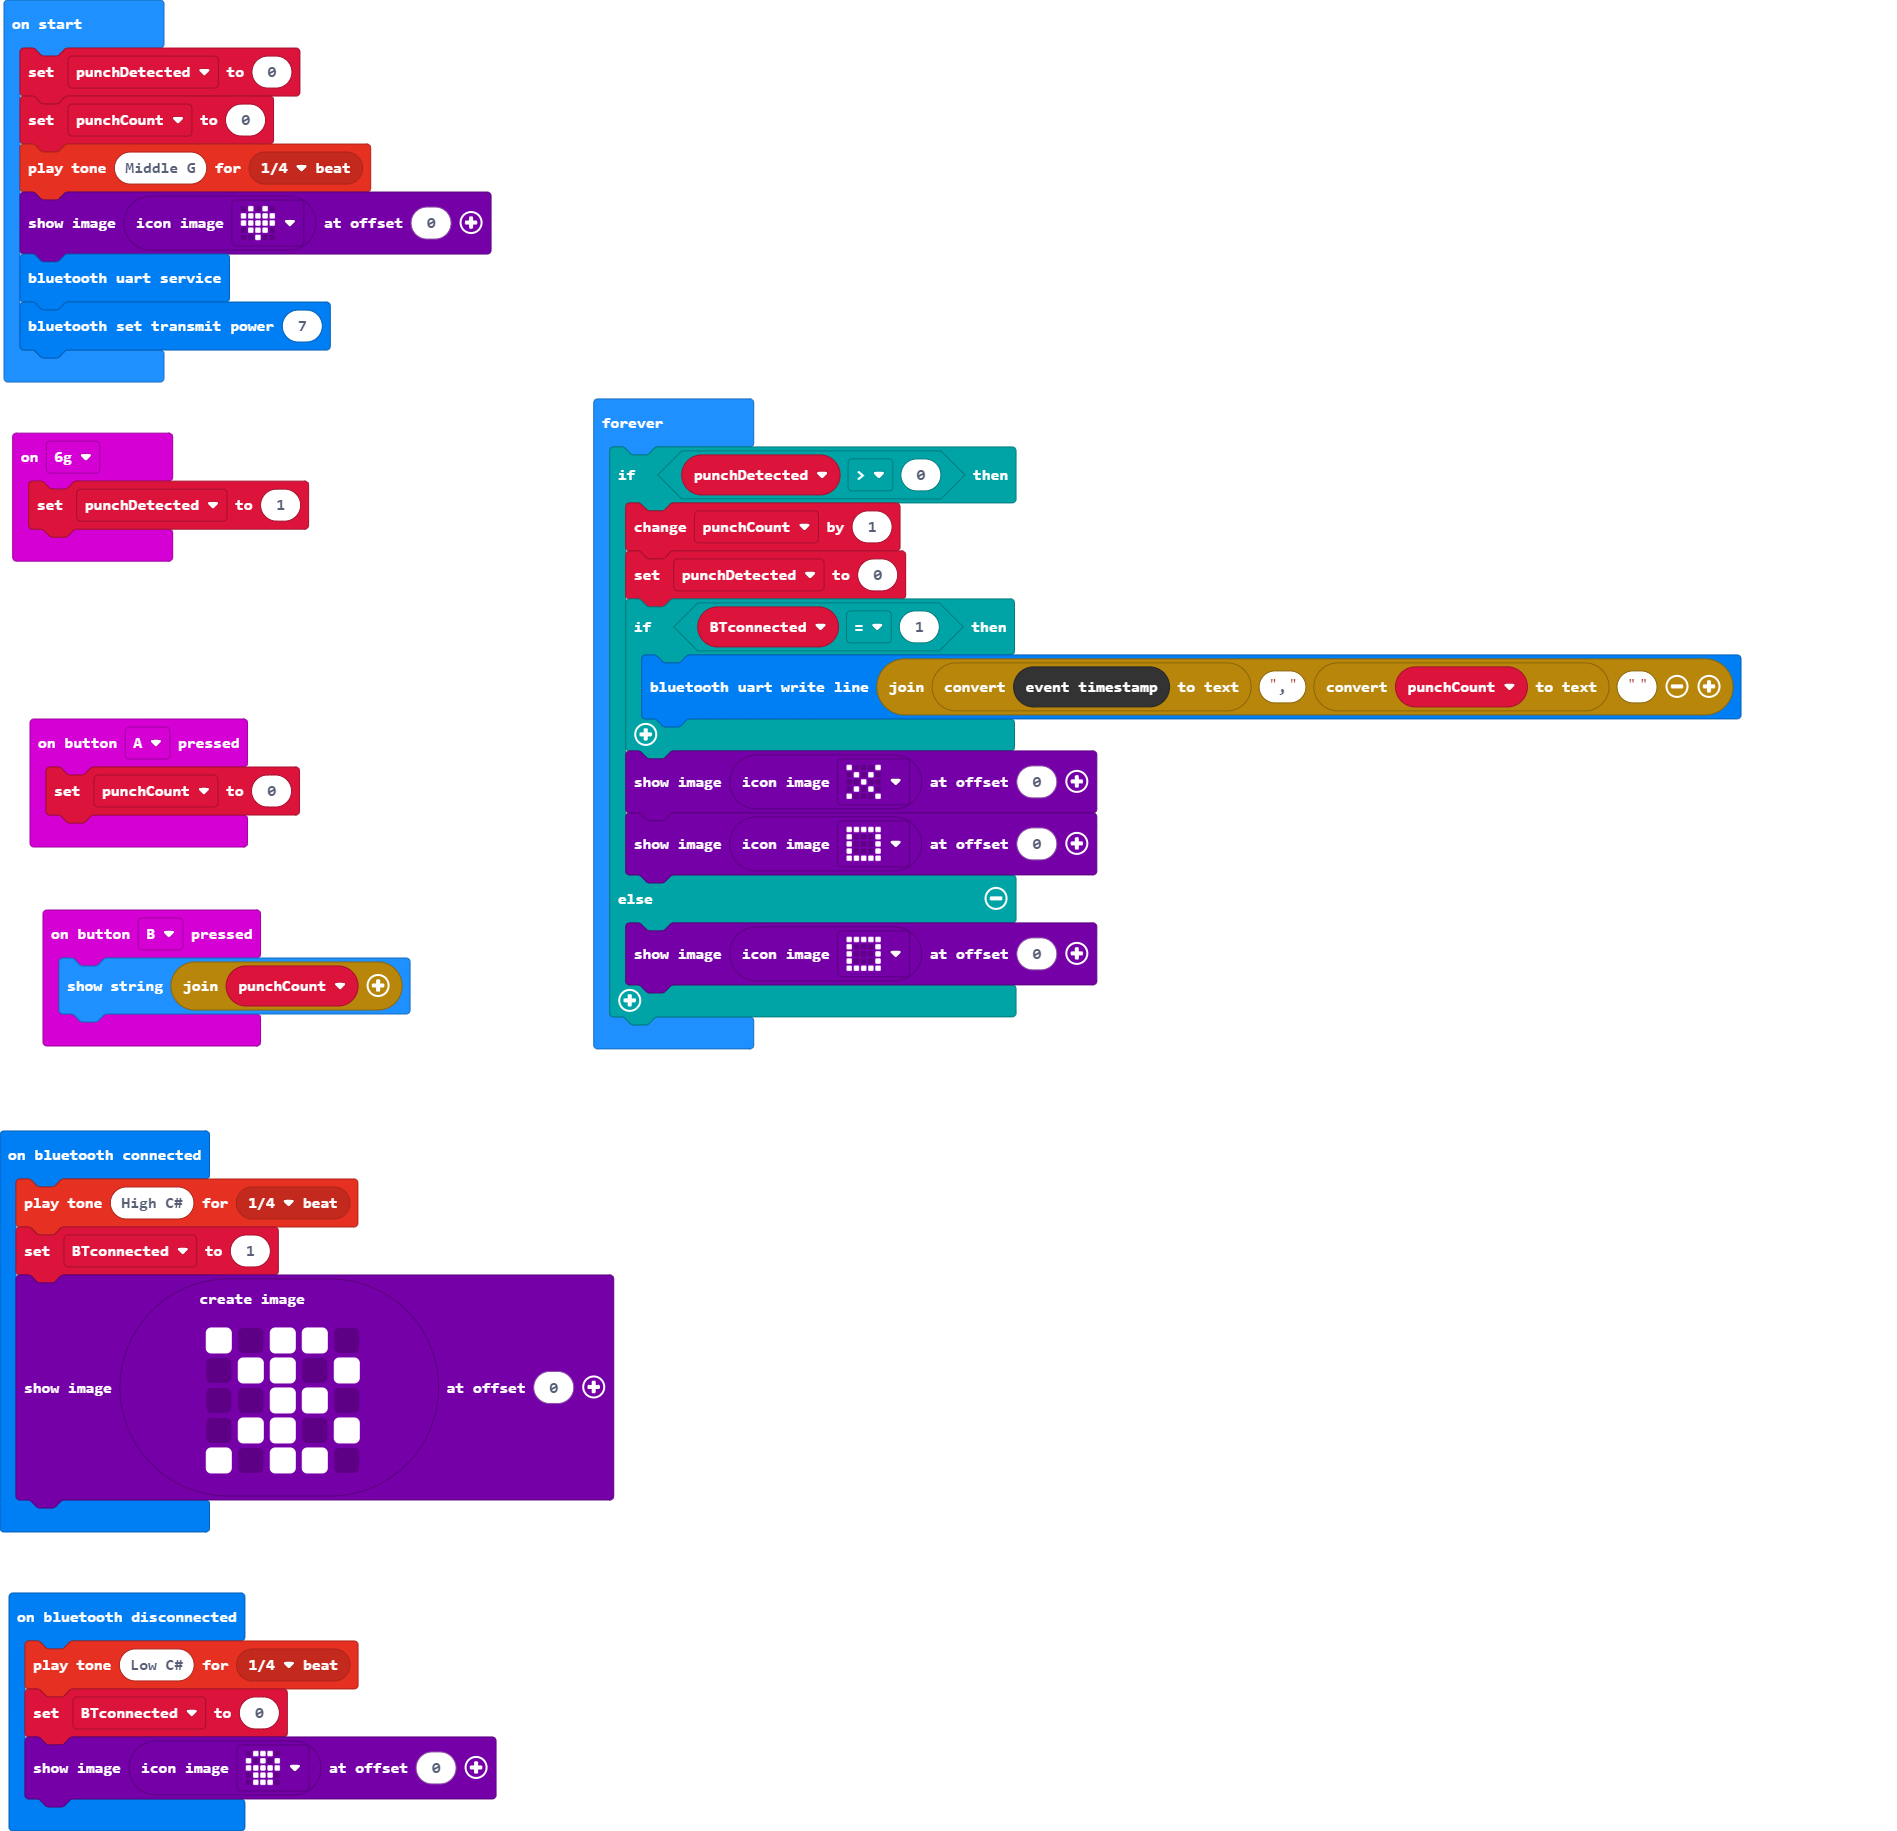
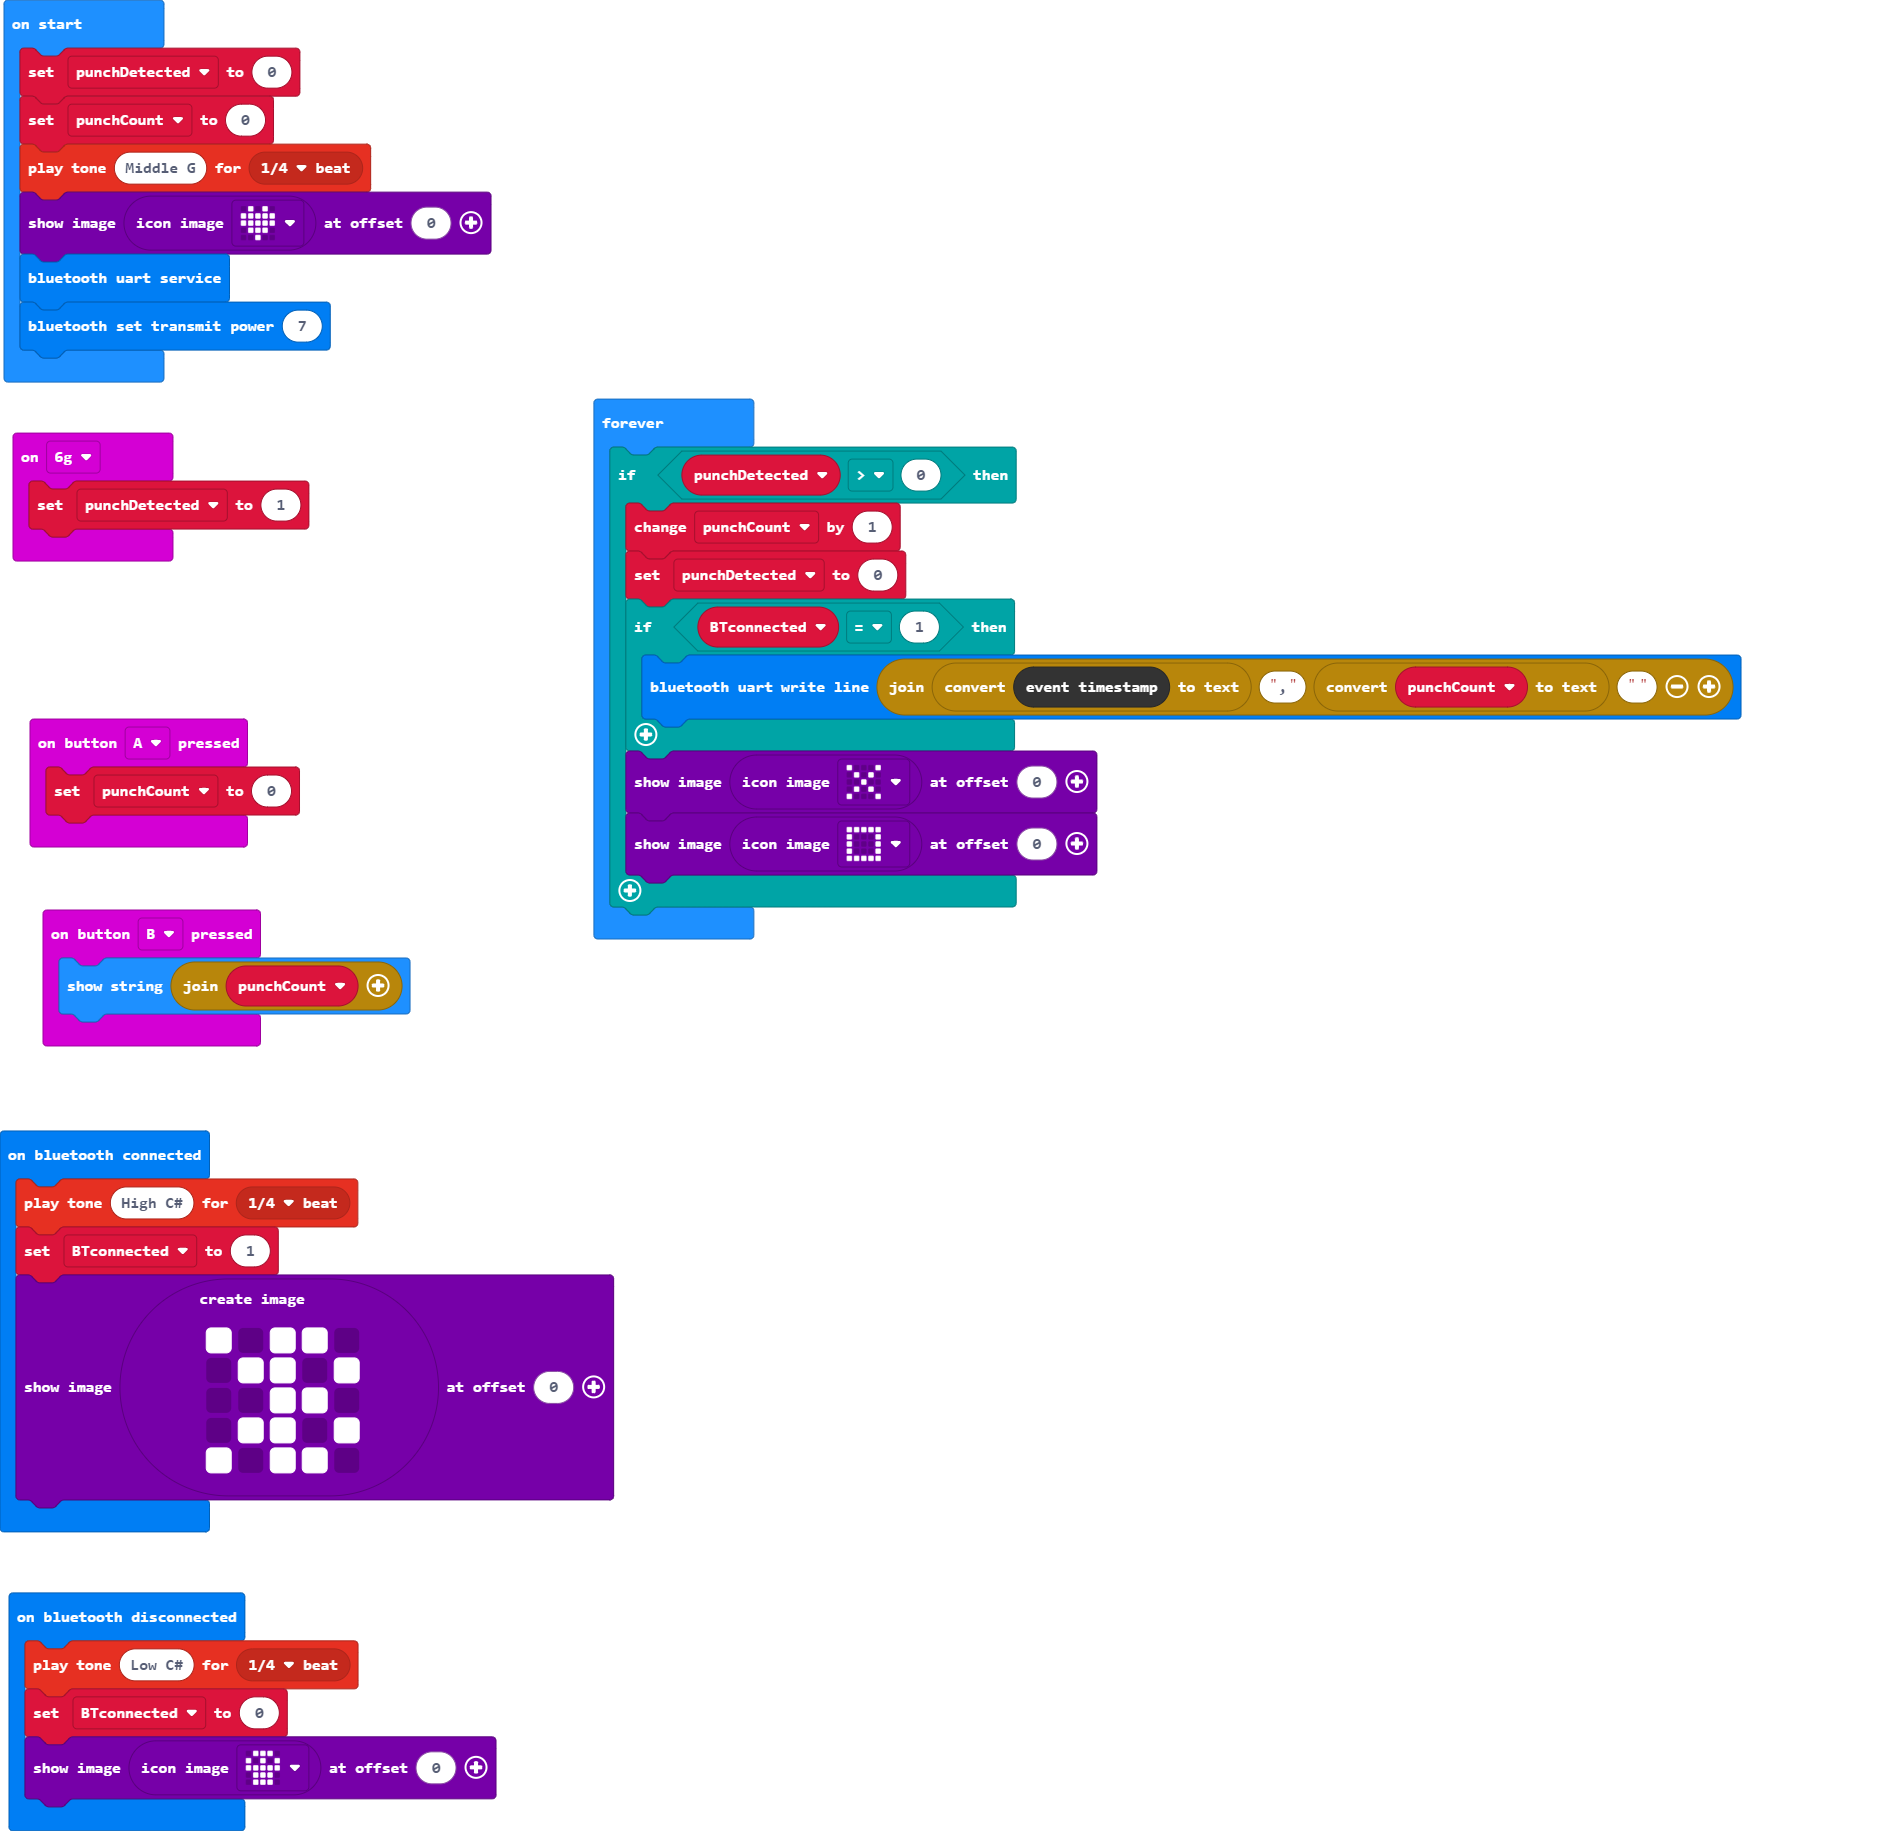
Remove else in forever loop. LED update not needed.

Changed region(s): [[0.311, 0.467, 0.5909, 0.5915]]

diff --git a/main.ts b/main.ts
@@ -41,7 +41,5 @@ basic.forever(function () {
         }
         images.iconImage(IconNames.No).showImage(0)
         images.iconImage(IconNames.Square).showImage(0)
-    } else {
-        images.iconImage(IconNames.Square).showImage(0)
     }
 })
